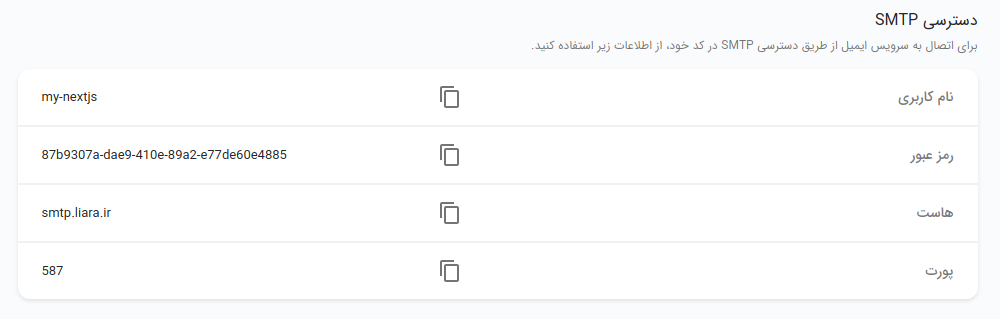
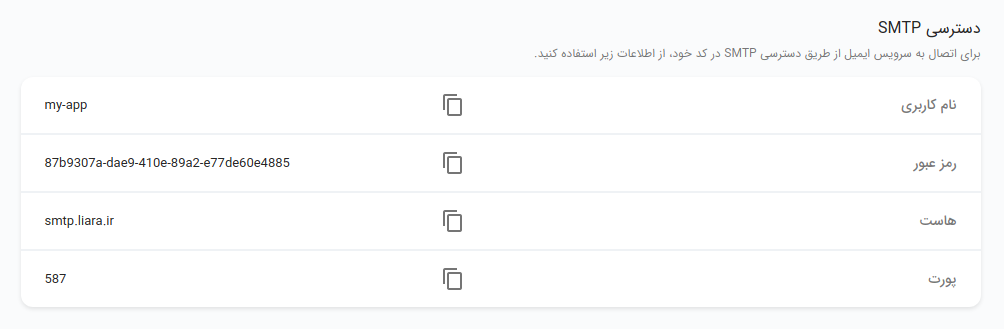
smtp username issue fixed.

diff --git a/pages/app-features/email.js b/pages/app-features/email.js
@@ -158,7 +158,7 @@ export default () => (
     <Notice variant="info">
       برای استفاده از دسترسی SMTP سرویس ایمیل، برای{" "}
       <span className="code">ENCRYPTION</span> تنها باید از{" "}
-      <span className="code">tsl</span> استفاده کنید. به عبارتی به تنها به صورت
+      <span className="code">tls</span> استفاده کنید. به عبارتی به تنها به صورت
       ایمن میتوانید از این دسترسی استفاده کنید و هیچ جای نگرانی برای شما، باقی
       نمیماند.
     </Notice>
@@ -186,7 +186,7 @@ export default () => (
     <Highlight className="json">
       {`MAIL_HOST=smtp.liara.ir
 MAIL_PORT=587
-MAIL_USER=my-nextjs
+MAIL_USER=my-app
 MAIL_PASSWORD=87b9307a-dae9-410e-89a2-e77de60e4885`}
     </Highlight>
     <p>
@@ -234,9 +234,9 @@ await transporter.sendMail({
       {`MAIL_DRIVER=smtp
 MAIL_HOST=smtp.liara.ir
 MAIL_PORT=587
-MAIL_USERNAME=my-nextjs
+MAIL_USERNAME=my-app
 MAIL_PASSWORD=87b9307a-dae9-410e-89a2-e77de60e4885
-MAIL_ENCRYPTION=ssl`}
+MAIL_ENCRYPTION=tls`}
     </Highlight>
     <p>
       برای اطلاعات بیشتر میتوانید به{" "}
@@ -257,7 +257,7 @@ MAIL_ENCRYPTION=ssl`}
       {`EMAIL_BACKEND = ‘django.core.mail.backends.smtp.EmailBackend’
 EMAIL_HOST=smtp.liara.ir
 EMAIL_PORT=587
-EMAIL_HOST_USER=my-nextjs
+EMAIL_HOST_USER=my-app
 EMAIL_HOST_PASSWORD=87b9307a-dae9-410e-89a2-e77de60e4885
 EMAIL_USE_TLS=True`}
     </Highlight>
